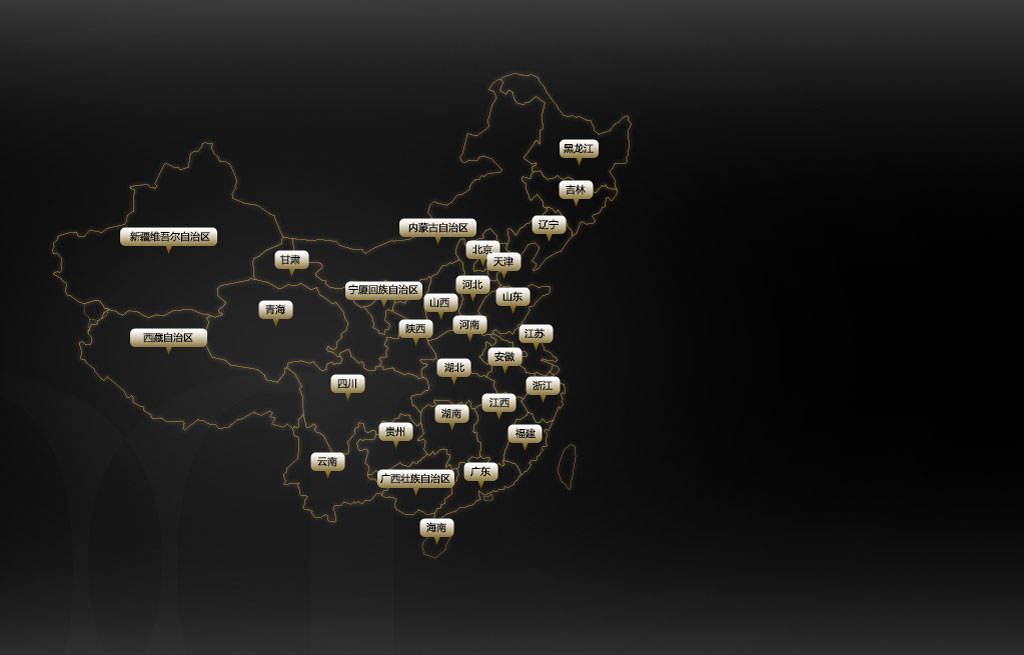
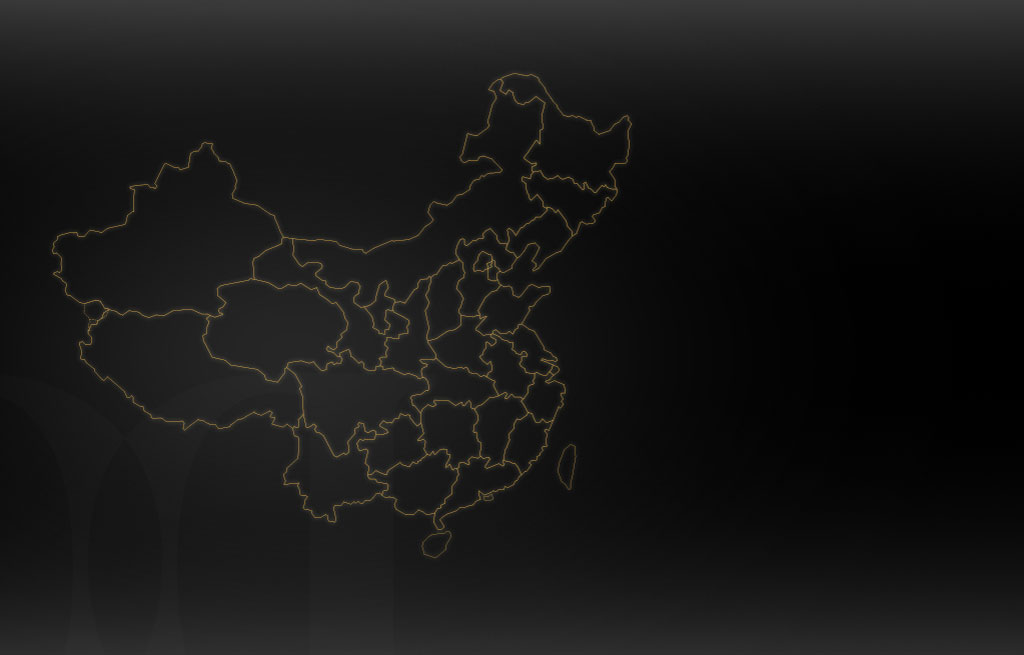
newfindcounter

diff --git a/findcounter.html b/findcounter.html
@@ -61,7 +61,37 @@
 		</div>
 	</div>
 	<div id="findcontent">
-		<div id="findleft"></div>
+		<div id="findleft">
+			<a href="" class="provinceicon size8 top230 left130" h="8">新疆维吾尔自治区</a>
+			<a href="" class="provinceicon size7 top330 left130" h="7">西藏自治区</a>
+			<a href="" class="provinceicon size2 top250 left260" h="2">甘肃</a>
+			<a href="" class="provinceicon size2 top300 left250" h="2">青海</a>
+			<a href="" class="provinceicon size7 top220 left400" h="7">内蒙古自治区</a>
+			<a href="" class="provinceicon size7 top280 left340" h="7">宁夏回族自治区</a>
+			<a href="" class="provinceicon size2 top370 left330" h="2">四川</a>
+			<a href="" class="provinceicon size2 top450 left310" h="2">云南</a>
+			<a href="" class="provinceicon size2 top240 left460" h="2">北京</a>
+			<a href="" class="provinceicon size2 top280 left450" h="2">河北</a>
+			<a href="" class="provinceicon size2 top300 left420" h="2">山西</a>
+			<a href="" class="provinceicon size2 top320 left390" h="2">陕西</a>
+			<a href="" class="provinceicon size2 top420 left380" h="2">贵州</a>
+			<a href="" class="provinceicon size7 top470 left380" h="7">广西壮族自治区</a>
+			<a href="" class="provinceicon size2 top250 left490" h="2">天津</a>
+			<a href="" class="provinceicon size2 top320 left450" h="2">河南</a>
+			<a href="" class="provinceicon size2 top360 left430" h="2">湖北</a>
+			<a href="" class="provinceicon size2 top400 left430" h="2">湖南</a>
+			<a href="" class="provinceicon size2 top520 left420" h="2">海南</a>
+			<a href="" class="provinceicon size3 top140 left560" h="3">黑龙江</a>
+			<a href="" class="provinceicon size2 top180 left560" h="2">吉林</a>
+			<a href="" class="provinceicon size2 top210 left530" h="2">辽宁</a>
+			<a href="" class="provinceicon size2 top290 left490" h="2">山东</a>
+			<a href="" class="provinceicon size2 top350 left490" h="2">安徽</a>
+			<a href="" class="provinceicon size2 top390 left480" h="2">江西</a>
+			<a href="" class="provinceicon size2 top460 left460" h="2">广东</a>
+			<a href="" class="provinceicon size2 top320 left520" h="2">江苏</a>
+			<a href="" class="provinceicon size2 top380 left530" h="2">浙江</a>
+			<a href="" class="provinceicon size2 top430 left510" h="2">福建</a>
+		</div>
 		<div id="findright">
 			<p class="findtitle1">寻找您身边的玛丽黛佳专柜</p>
 			<p class="findtitle2">输入你要查找的城市或省份:</p>

diff --git a/css/base.css b/css/base.css
@@ -106,7 +106,76 @@ p a.white{color:#fff;}
 
 /*@寻找专柜*/
 #findcontent{background:url(../img/specialcounter_bg.jpg) no-repeat;height:655px;width:1024px;position:relative;}
-#findleft{width:690px;height:655px;float:left;}
+#findleft{width:690px;height:655px;float:left;position:relative;}
+.size8{width:101px;height:27px;padding-top:2px;background:url(../img/provincebg8.png);}
+.size7{width:81px;height:26px;padding-top:2px;background:url(../img/provincebg7.png);}
+.size3{width:43px;height:26px;padding-top:2px;background:url(../img/provincebg3.png);}
+.size2{width:39px;height:27px;padding-top:2px;background:url(../img/provincebg2.png);}
+.hidden{visibility:hidden;}
+.provinceicon{display:block;position:absolute;text-decoration:none;color:#000;font:10px "Microsoft YaHei";text-align:center;}
+#findleft .provinceiconhover{}
+.top140{top:140px;}
+.top180{top:180px;}
+.top210{top:210px;}
+.top220{top:220px;}
+.top230{top:230px;}
+.top240{top:240px;}
+.top250{top:250px;}
+.top260{top:260px;}
+.top270{top:270px;}
+.top280{top:280px;}
+.top290{top:290px;}
+.top300{top:300px;}
+.top310{top:310px;}
+.top320{top:320px;}
+.top330{top:330px;}
+.top340{top:340px;}
+.top350{top:350px;}
+.top360{top:360px;}
+.top370{top:370px;}
+.top380{top:380px;}
+.top390{top:390px;}
+.top400{top:400px;}
+.top410{top:410px;}
+.top420{top:420px;}
+.top430{top:430px;}
+.top440{top:440px;}
+.top450{top:450px;}
+.top460{top:460px;}
+.top470{top:470px;}
+.top480{top:480px;}
+.top490{top:490px;}
+.top500{top:500px;}
+.top510{top:510px;}
+.top520{top:520px;}
+.left130{left:130px;}
+.left260{left:260px;}
+.left250{left:250px;}
+.left310{left:310px;}
+.left320{left:320px;}
+.left330{left:330px;}
+.left340{left:340px;}
+.left350{left:350px;}
+.left360{left:360px;}
+.left370{left:370px;}
+.left380{left:380px;}
+.left390{left:390px;}
+.left400{left:400px;}
+.left410{left:410px;}
+.left420{left:420px;}
+.left430{left:430px;}
+.left440{left:440px;}
+.left450{left:450px;}
+.left460{left:460px;}
+.left470{left:470px;}
+.left480{left:480px;}
+.left490{left:490px;}
+.left500{left:500px;}
+.left510{left:510px;}
+.left520{left:520px;}
+.left530{left:530px;}
+.left560{left:560px;}
+
 #findright {width:300px;height:655px;float:left;position:relative;}
 #findright p.findtitle1{font-size:21px;font-family:"微软雅黑";color:#cc9966;margin-top:60px;}
 #findright p.findtitle2{font-size:12px;font-family:"微软雅黑";color:#cccccc;margin-top:28px;}

diff --git a/js/js.js b/js/js.js
@@ -363,6 +363,15 @@ maire.exchange = {//交流
 maire.findcounter = {//查询专柜页面
 	initialize : function(){
 		$('.chosenselect').chosen();
+		$('.provinceicon').hover(function(){
+			var $this = $(this);
+			h = $this.attr('h');
+			$(this).css('background','url(img/provincebg'+h+'a.png)')
+		},function(){
+			var $this = $(this);
+			h = $this.attr('h');
+			$(this).css('background','url(img/provincebg'+h+'.png)')
+		})
 		$('.recruitmentBtn img').hover(function(){//招聘按钮
 			$(this).attr('src','img/recruitment_btn1.png');
 		},function(){
